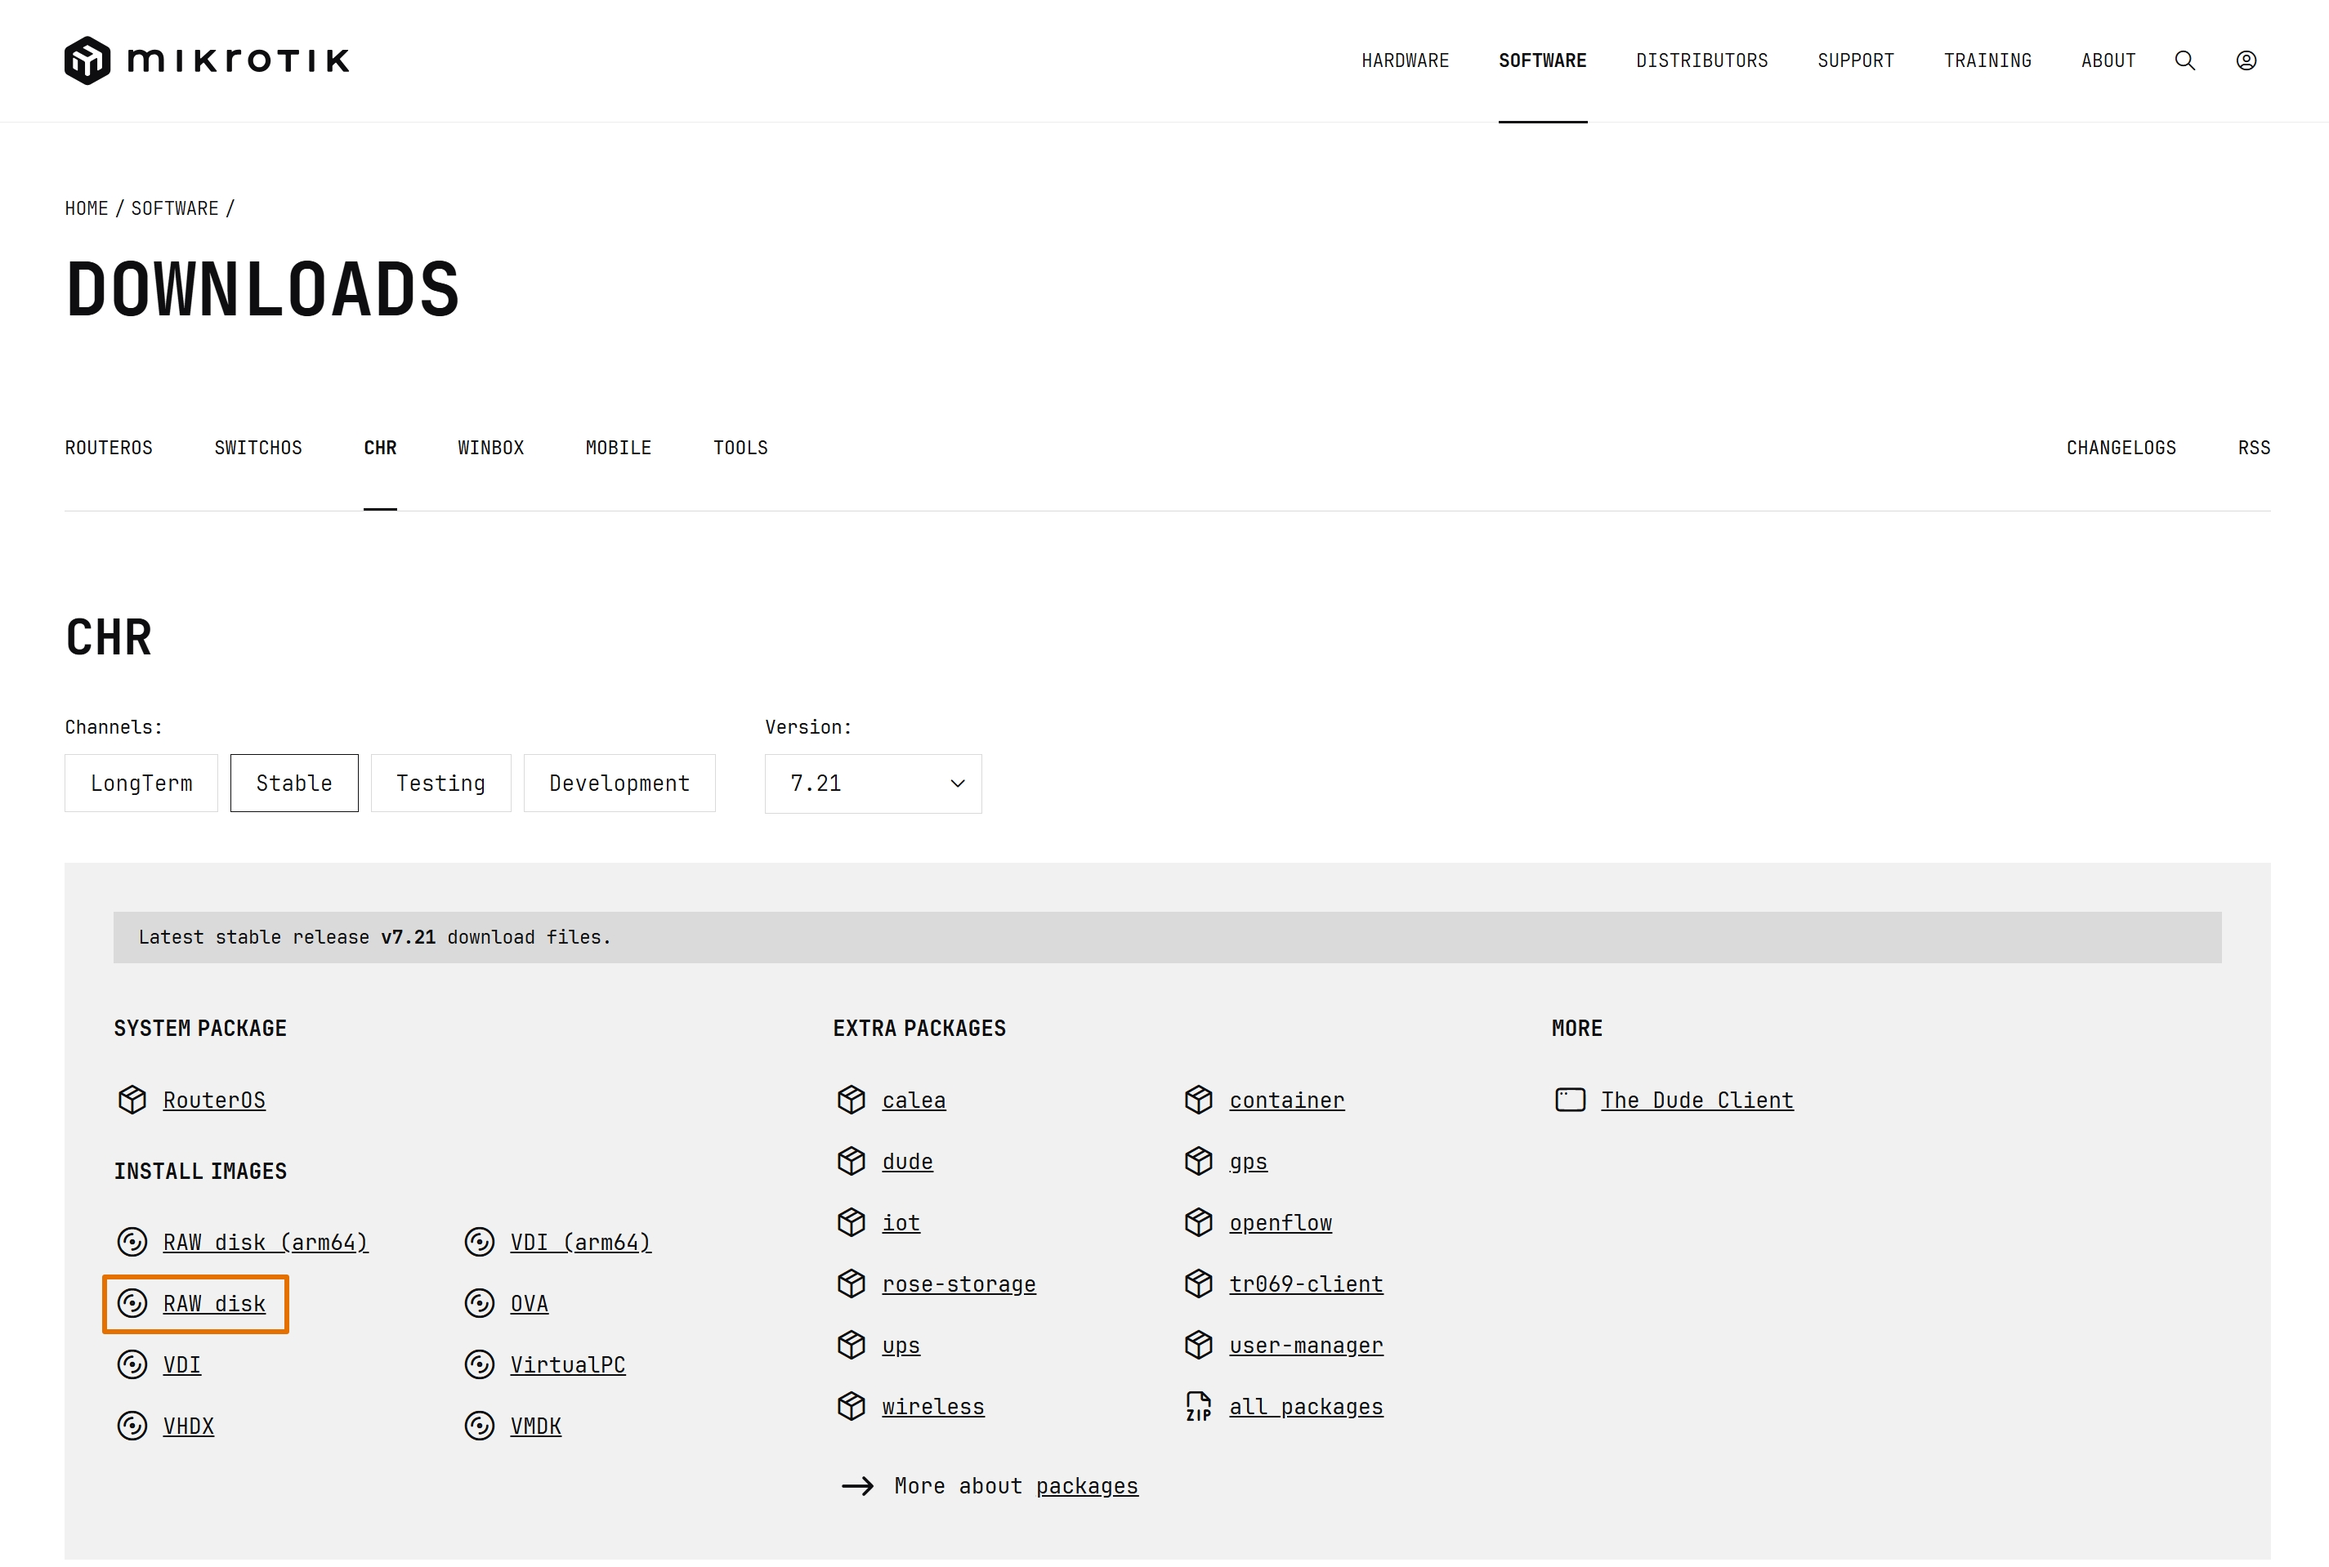
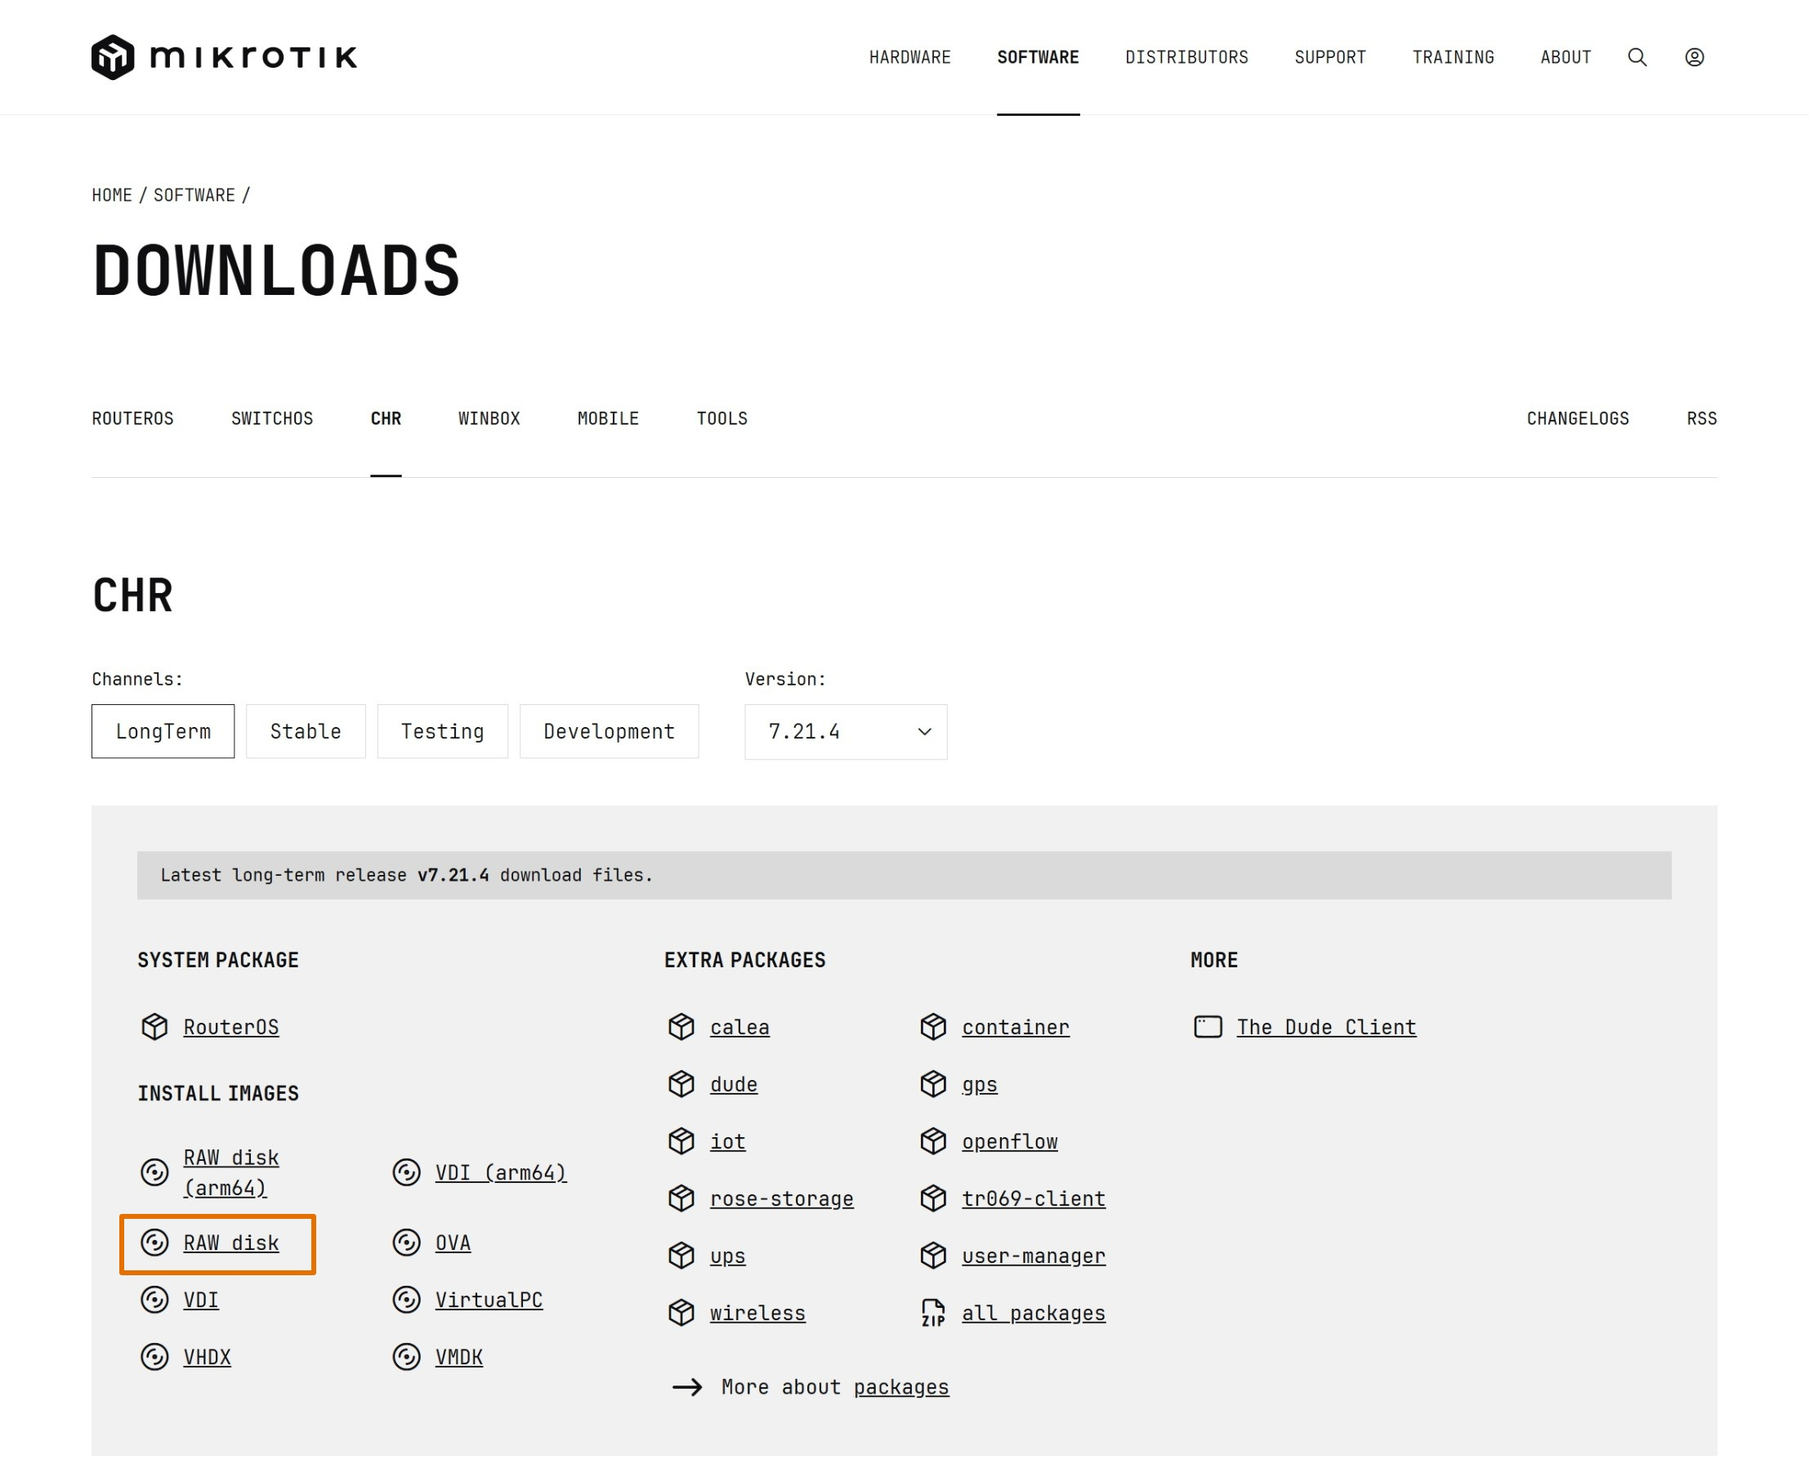
变更更新渠道为 Long Term

diff --git a/00.PVE下安装系统.md b/00.PVE下安装系统.md
@@ -122,7 +122,7 @@ $ mkdir -p /tmp/RouterOS
 $ cd /tmp/RouterOS
 
 ## 下载 RouterOS 镜像文件
-$ curl -LR -O https://download.mikrotik.com/routeros/7.21/chr-7.21.img.zip
+$ curl -LR -O https://download.mikrotik.com/routeros/7.21.4/chr-7.21.4.img.zip
 ```
 
 镜像文件下载完成后，检查其 `hash` 信息。  
@@ -132,10 +132,10 @@ $ curl -LR -O https://download.mikrotik.com/routeros/7.21/chr-7.21.img.zip
 $ ls -lah
 
 ## 计算文件 hash
-$ sha256sum chr-7.21.img.zip
+$ sha256sum chr-7.21.4.img.zip
 
 #### 文件 hash 示例输出
-644bb59b1479c670f482fab3e0284d1be8e2e70db40dec448db4ac531872272b  chr-7.21.img.zip
+29a43395447d88991ad72d09a56247b568b239919eacaacb44581871fd462379  chr-7.21.4.img.zip
 ```
 
 将得到的 `hash` 值与官网提供的校验信息进行对比，确认无误后，再进行后续步骤。  
@@ -146,7 +146,7 @@ $ sha256sum chr-7.21.img.zip
 
 ```bash
 ## 将镜像文件解压缩
-$ unzip -q chr-7.21.img.zip
+$ unzip -q chr-7.21.4.img.zip
 ```
 
 ### 3.2.导入镜像文件
@@ -157,7 +157,7 @@ $ unzip -q chr-7.21.img.zip
 
 ```bash
 ## 将 img 镜像导入虚拟机中
-$ qm importdisk 101 chr-7.21.img local-lvm
+$ qm importdisk 101 chr-7.21.4.img local-lvm
 
 #### img 镜像导入示例输出
 unused0: successfully imported disk 'local-lvm:vm-101-disk-0'
@@ -179,17 +179,22 @@ unused0: successfully imported disk 'local-lvm:vm-101-disk-0'
 
 ![调整磁盘参数](img/p00/ros_hd_iothread.jpeg)
 
-此时，磁盘大小为 `128` MiB ，为了方便后续使用，需要对该磁盘空间进行扩容。  
+此时，磁盘大小为 `128` MiB ，为了方便后续使用，可通过 PVE `qm` 命令直接将该磁盘调整至目标容量。  
 
 此处扩容后，在 RouterOS 虚拟机 **初次启动** 时，会根据磁盘空间自动扩容安装，所以无需担心。  
 
 ![磁盘扩容-1](img/p00/ros_hd_enlarge.jpeg)
 
-选中该磁盘，然后点击 `磁盘操作` 的 `调整大小` ：
+```bash
+## 将镜像容量设置为 2G
+$ qm disk resize 101 scsi0 2G
+```
+
+或选中该磁盘，然后点击 `磁盘操作` 的 `调整大小` ：
 
 ![磁盘扩容-2](img/p00/ros_hd_resize.jpeg)
 
-根据需要，扩容一定量的磁盘空间；本文作为演示，仅增加 `1.875` GiB 的磁盘空间，并点击 `调整磁盘大小` ：  
+本文作为演示，仅增加 `1.875` GiB 的磁盘空间。  
 
 ![磁盘扩容-3](img/p00/ros_hd_add1G.jpeg)
 

diff --git a/07.设置定时任务.md b/07.设置定时任务.md
@@ -213,7 +213,7 @@ add comment="sysconf: system auto upgrade" dont-require-permissions=no name=sys-
 ## Fox RouterOS Notification
 :local Project "Resource Report";
 :local WanInterface "pppoe-out1";              # Need to customize
-:local UpdateChannel "stable";
+:local UpdateChannel "long-term";
 ```
 
 鼠标 **双击** 系统资源邮件脚本 `email-res-worker` ，进入脚本配置界面，在 `Source` 处粘贴脚本代码。  

diff --git a/README.md b/README.md
@@ -4,7 +4,7 @@
 
 RouterOS 路由器的安装以及折腾手记。
 
-- RouterOS 适用版本：7.21 Stable
+- RouterOS 适用版本：7.21.4 LongTerm
 
 
 - 演示机：
